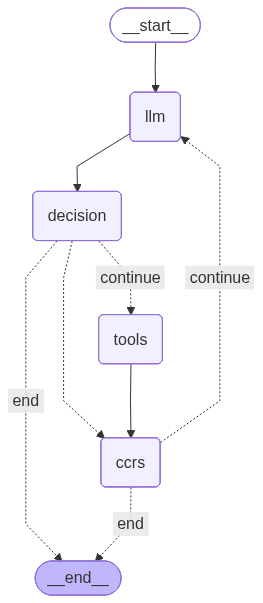
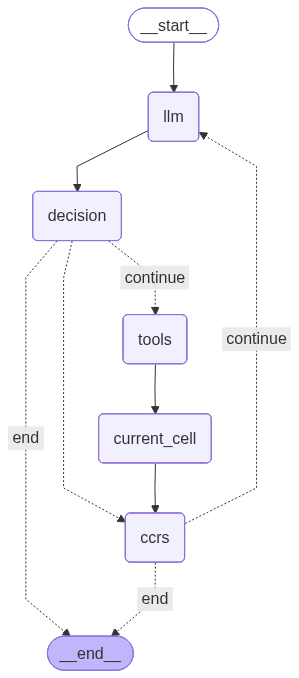
add cell state tracking and expand system prompt

diff --git a/react_agent/nodes/current_cell_node.py b/react_agent/nodes/current_cell_node.py
@@ -1,0 +1,92 @@
+import logging
+from typing import Any, Mapping
+
+from langchain_core.messages import AIMessage, ToolMessage
+
+from react_agent.state.state import AgentState
+
+
+logger = logging.getLogger(__name__)
+
+ENTERS_FROM_PREDICATE = "https://paul.ti.rw.fau.de/~am52etar/dynmaze/dynmaze#entersFrom"
+GRAPH_UPDATED_PREFIX = "Graph updated:"
+
+
+def current_cell_node(state: AgentState) -> dict[str, Any]:
+    """Track the embodied maze cell after successful movement POST calls."""
+
+    current_cell = _current_cell_from_latest_tool_batch(state)
+    if current_cell is None:
+        return {}
+
+    logger.info("[CURRENT_CELL_NODE] Current cell updated: %s", current_cell)
+    return {"current_cell": current_cell}
+
+
+def _current_cell_from_latest_tool_batch(state: Mapping[str, Any]) -> str | None:
+    messages = list(state.get("messages", []))
+    latest_tool_messages = _latest_tool_messages(messages)
+    if not latest_tool_messages:
+        return None
+
+    latest_ai_message = _latest_ai_message_before_tool_batch(messages, len(latest_tool_messages))
+    if latest_ai_message is None:
+        return None
+
+    tool_messages_by_id = {
+        str(message.tool_call_id): message for message in latest_tool_messages
+    }
+    current_cell = None
+    for call in latest_ai_message.tool_calls or []:
+        tool_message = tool_messages_by_id.get(str(call.get("id")))
+        if tool_message is None:
+            continue
+        if _is_successful_move_call(call, tool_message):
+            current_cell = _tool_target_url(call)
+    return current_cell
+
+
+def _latest_tool_messages(messages: list[Any]) -> list[ToolMessage]:
+    latest: list[ToolMessage] = []
+    for message in reversed(messages):
+        if not isinstance(message, ToolMessage):
+            break
+        latest.append(message)
+    latest.reverse()
+    return latest
+
+
+def _latest_ai_message_before_tool_batch(
+    messages: list[Any],
+    tool_message_count: int,
+) -> AIMessage | None:
+    search_until = len(messages) - tool_message_count
+    for message in reversed(messages[:search_until]):
+        if isinstance(message, AIMessage):
+            return message
+    return None
+
+
+def _is_successful_move_call(call: Mapping[str, Any], tool_message: ToolMessage) -> bool:
+    if call.get("name") != "http_post":
+        return False
+    if tool_message.status != "success":
+        return False
+    if not isinstance(tool_message.content, str):
+        return False
+    if not tool_message.content.startswith(GRAPH_UPDATED_PREFIX):
+        return False
+
+    args = call.get("args")
+    if not isinstance(args, Mapping):
+        return False
+    data = args.get("data")
+    return isinstance(data, str) and ENTERS_FROM_PREDICATE in data
+
+
+def _tool_target_url(call: Mapping[str, Any]) -> str | None:
+    args = call.get("args")
+    if not isinstance(args, Mapping):
+        return None
+    url = args.get("url")
+    return str(url) if url is not None else None

diff --git a/react_agent/prompts/react_prompt.py b/react_agent/prompts/react_prompt.py
@@ -5,7 +5,23 @@ from react_agent.ccrs.prompt import DEFAULT_CCRS_SYSTEM_PROMPT
 
 BASE_REACT_SYSTEM_PROMPT = (
     "You are an autonomous agent. Complete the user's request. Your name is {agent_name}. "
-    "Use the available tools and explain your thinking through actions."
+    "Use the available tools and explain your thinking through actions. "
+    "Tracked current cell you are embodied in: {current_cell}. "
+    "If the tracked current cell is unknown, follow the bootstrap instructions from the user request. "
+    "After bootstrap, tool use is constrained by embodiment. "
+    "To perceive the maze, only use http_get on the tracked current cell, with exactly this shape: "
+    "{{\"url\": \"{current_cell}\"}}. "
+    "Do not use http_get on adjacent cells before moving there. "
+    "To navigate, choose a target cell that appeared as maze:north, maze:south, maze:east, maze:west, "
+    "or maze:exit in the RDF of the tracked current cell, then call http_post with exactly this shape: "
+    "{{\"url\": \"TARGET_CELL_URI\", \"data\": \"<http://127.0.1.1:8080/agents/{agent_name}> "
+    "<https://paul.ti.rw.fau.de/~am52etar/dynmaze/dynmaze#entersFrom> <{current_cell}> .\", "
+    "\"headers\": {{\"Content-Type\": \"text/turtle\"}}}}. "
+    "Replace only TARGET_CELL_URI with the adjacent target cell URI. "
+    "For non-navigation interactions, use http_post only on the tracked current cell with exactly this shape: "
+    "{{\"url\": \"{current_cell}\", \"data\": \"VALID_TURTLE_BODY_FOR_THE_INTERACTION\", "
+    "\"headers\": {{\"Content-Type\": \"text/turtle\"}}}}. "
+    "Do not interact with adjacent cells before moving there."
 )
 
 

diff --git a/react_agent/graph/graph.py b/react_agent/graph/graph.py
@@ -2,6 +2,7 @@ from langgraph.graph import StateGraph, END
 from react_agent.state.state import AgentState
 from react_agent.nodes.llm_node import llm_node
 from react_agent.nodes.tool_node import tool_node
+from react_agent.nodes.current_cell_node import current_cell_node
 from react_agent.nodes.decision_node import should_continue
 
 def build_graph():
@@ -11,6 +12,7 @@ def build_graph():
     # Add nodes to the graph
     workflow.add_node("llm", llm_node)
     workflow.add_node("tools", tool_node)
+    workflow.add_node("current_cell", current_cell_node)
 
     # Set the entrypoint as `llm`, this is the first node called
     workflow.set_entry_point("llm")
@@ -31,7 +33,7 @@ def build_graph():
         },
     )
 
-    # Add a normal edge after `tools` is called, `llm` node is called next.
-    workflow.add_edge("tools", "llm")
+    workflow.add_edge("tools", "current_cell")
+    workflow.add_edge("current_cell", "llm")
 
     return workflow.compile()

diff --git a/react_agent/graph/graph_ccrs.py b/react_agent/graph/graph_ccrs.py
@@ -16,6 +16,7 @@ from react_agent.ccrs.contingency.decision import (
     route_after_ccrs_node,
 )
 from react_agent.nodes.llm_node_ccrs_v2 import make_llm_node
+from react_agent.nodes.current_cell_node import current_cell_node
 from react_agent.nodes.tool_node import tool_node
 from react_agent.tools import tools
 
@@ -61,6 +62,7 @@ def build_graph(
         ),
     )
     workflow.add_node("tools", tool_node)
+    workflow.add_node("current_cell", current_cell_node)
     workflow.add_node(
         "ccrs",
         make_ccrs_node(
@@ -82,7 +84,8 @@ def build_graph(
         },
     )
 
-    workflow.add_edge("tools", "ccrs")
+    workflow.add_edge("tools", "current_cell")
+    workflow.add_edge("current_cell", "ccrs")
     workflow.add_conditional_edges(
         "ccrs",
         route_after_ccrs_node,

diff --git a/react_agent/runner.py b/react_agent/runner.py
@@ -15,6 +15,7 @@ async def run_query_async(graph, q: str, run_name: str, config: dict):
         initial= {
             "messages": [HumanMessage(content=q)],
             "cycle": _initial_cycle(),
+            "current_cell": None,
         }
         printed_message_count = 0
         async for step in graph.astream(
@@ -37,6 +38,7 @@ def run_query_sync(graph, q: str, run_name: str, config: dict):
         initial = {
             "messages": [HumanMessage(content=q)],
             "cycle": _initial_cycle(),
+            "current_cell": None,
         }
         printed_message_count = 0
         for state in graph.stream(

diff --git a/react_agent/state/state.py b/react_agent/state/state.py
@@ -1,4 +1,4 @@
-from typing import Annotated, Any, Sequence, TypedDict
+from typing import Annotated, Any, NotRequired, Sequence, TypedDict
 
 from langchain_core.messages import BaseMessage
 from langgraph.graph.message import add_messages # helper function to add messages to the state
@@ -8,3 +8,4 @@ class AgentState(TypedDict):
     """The state of the agent."""
     messages: Annotated[Sequence[BaseMessage], add_messages]
     cycle: dict[str, Any]
+    current_cell: NotRequired[str | None]

diff --git a/react_agent/state/state_ccrs.py b/react_agent/state/state_ccrs.py
@@ -1,8 +1,12 @@
+from typing import NotRequired
+
 from react_agent.ccrs.state import CcrsAgentState as CcrsLibraryState
 
 
 class CcrsAgentState(CcrsLibraryState):
     """The state of this agent when the CCRS graph variant is enabled."""
+
+    current_cell: NotRequired[str | None]
 
     # Add use-case-specific channels here when this agent needs state beyond the
     # CCRS library contract, for example experiment or scenario-specific fields.

diff --git a/react_agent/nodes/llm_node.py b/react_agent/nodes/llm_node.py
@@ -44,6 +44,7 @@ def llm_node(
     response = chain.invoke({
         "messages": messages,
         "agent_name": agent_name,
+        "current_cell": state.get("current_cell") or "unknown",
     }, config)
     
     logging.debug(f"LLM node received response: {response}")

diff --git a/react_agent/nodes/llm_node_ccrs_v2.py b/react_agent/nodes/llm_node_ccrs_v2.py
@@ -77,6 +77,7 @@ def llm_node(
     response = chain.invoke({
         "messages": messages,
         "agent_name": agent_name,
+        "current_cell": state.get("current_cell") or "unknown",
         "ccrs" : ccrs_context.text,
     }, config)
     
